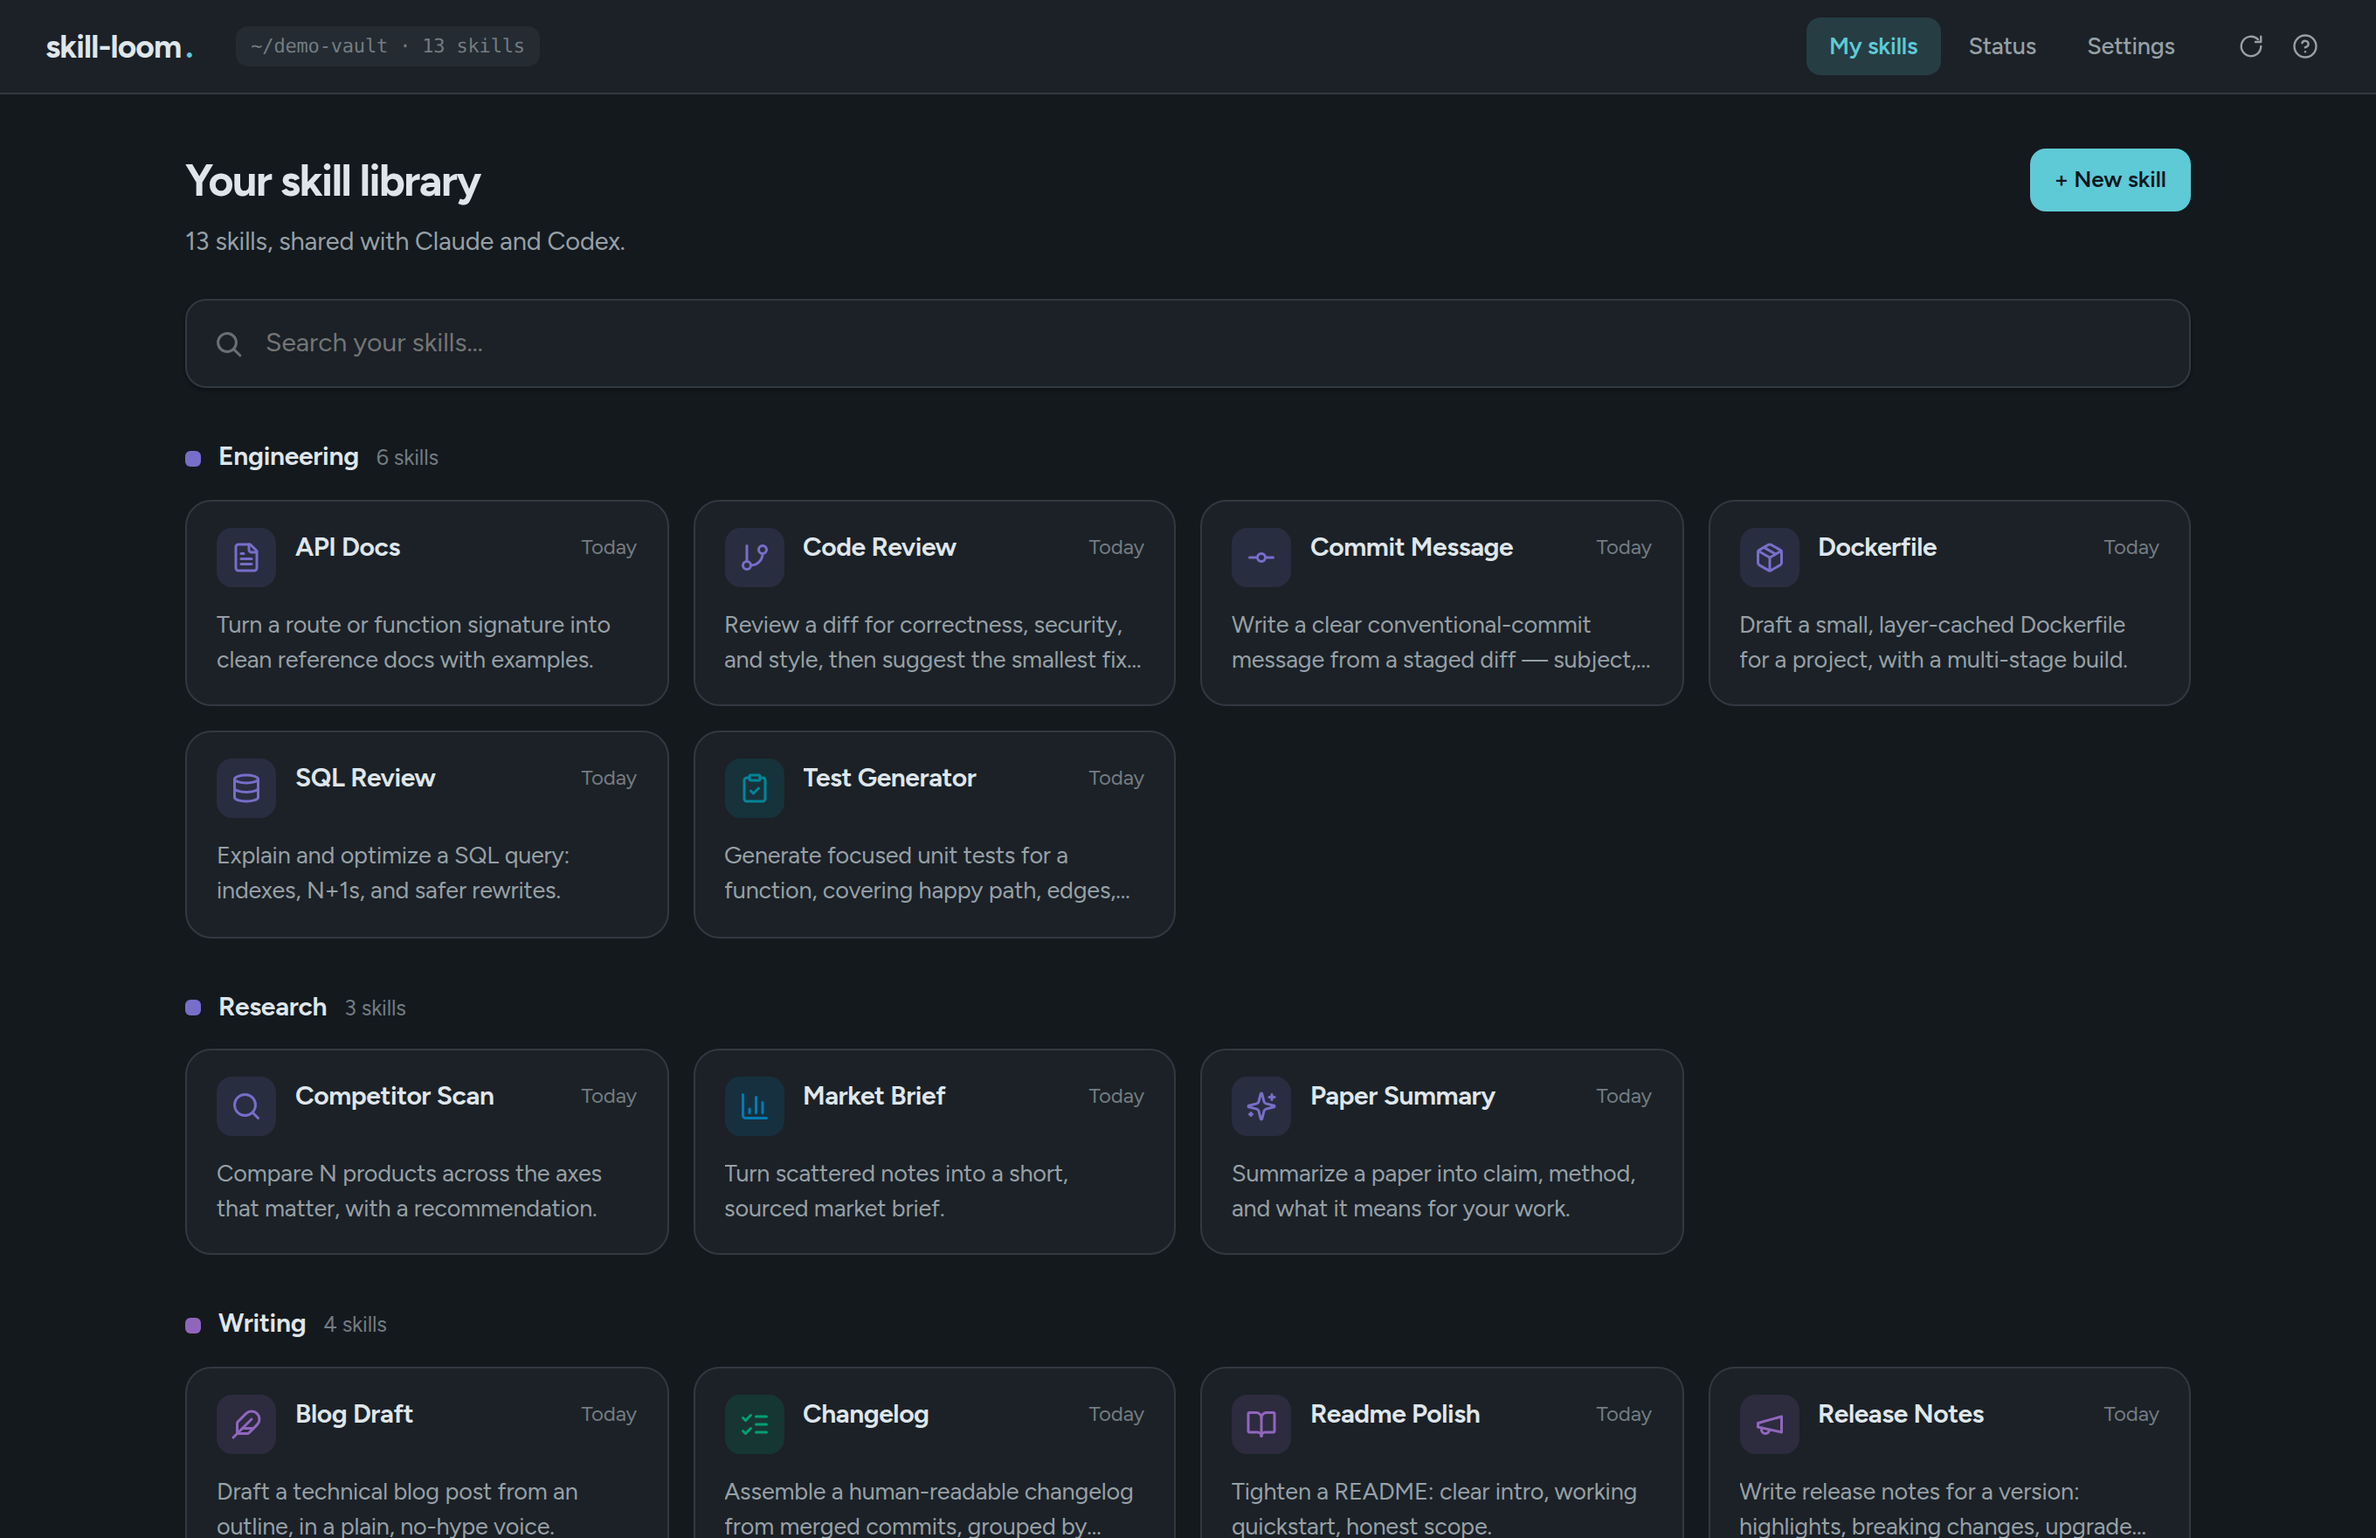
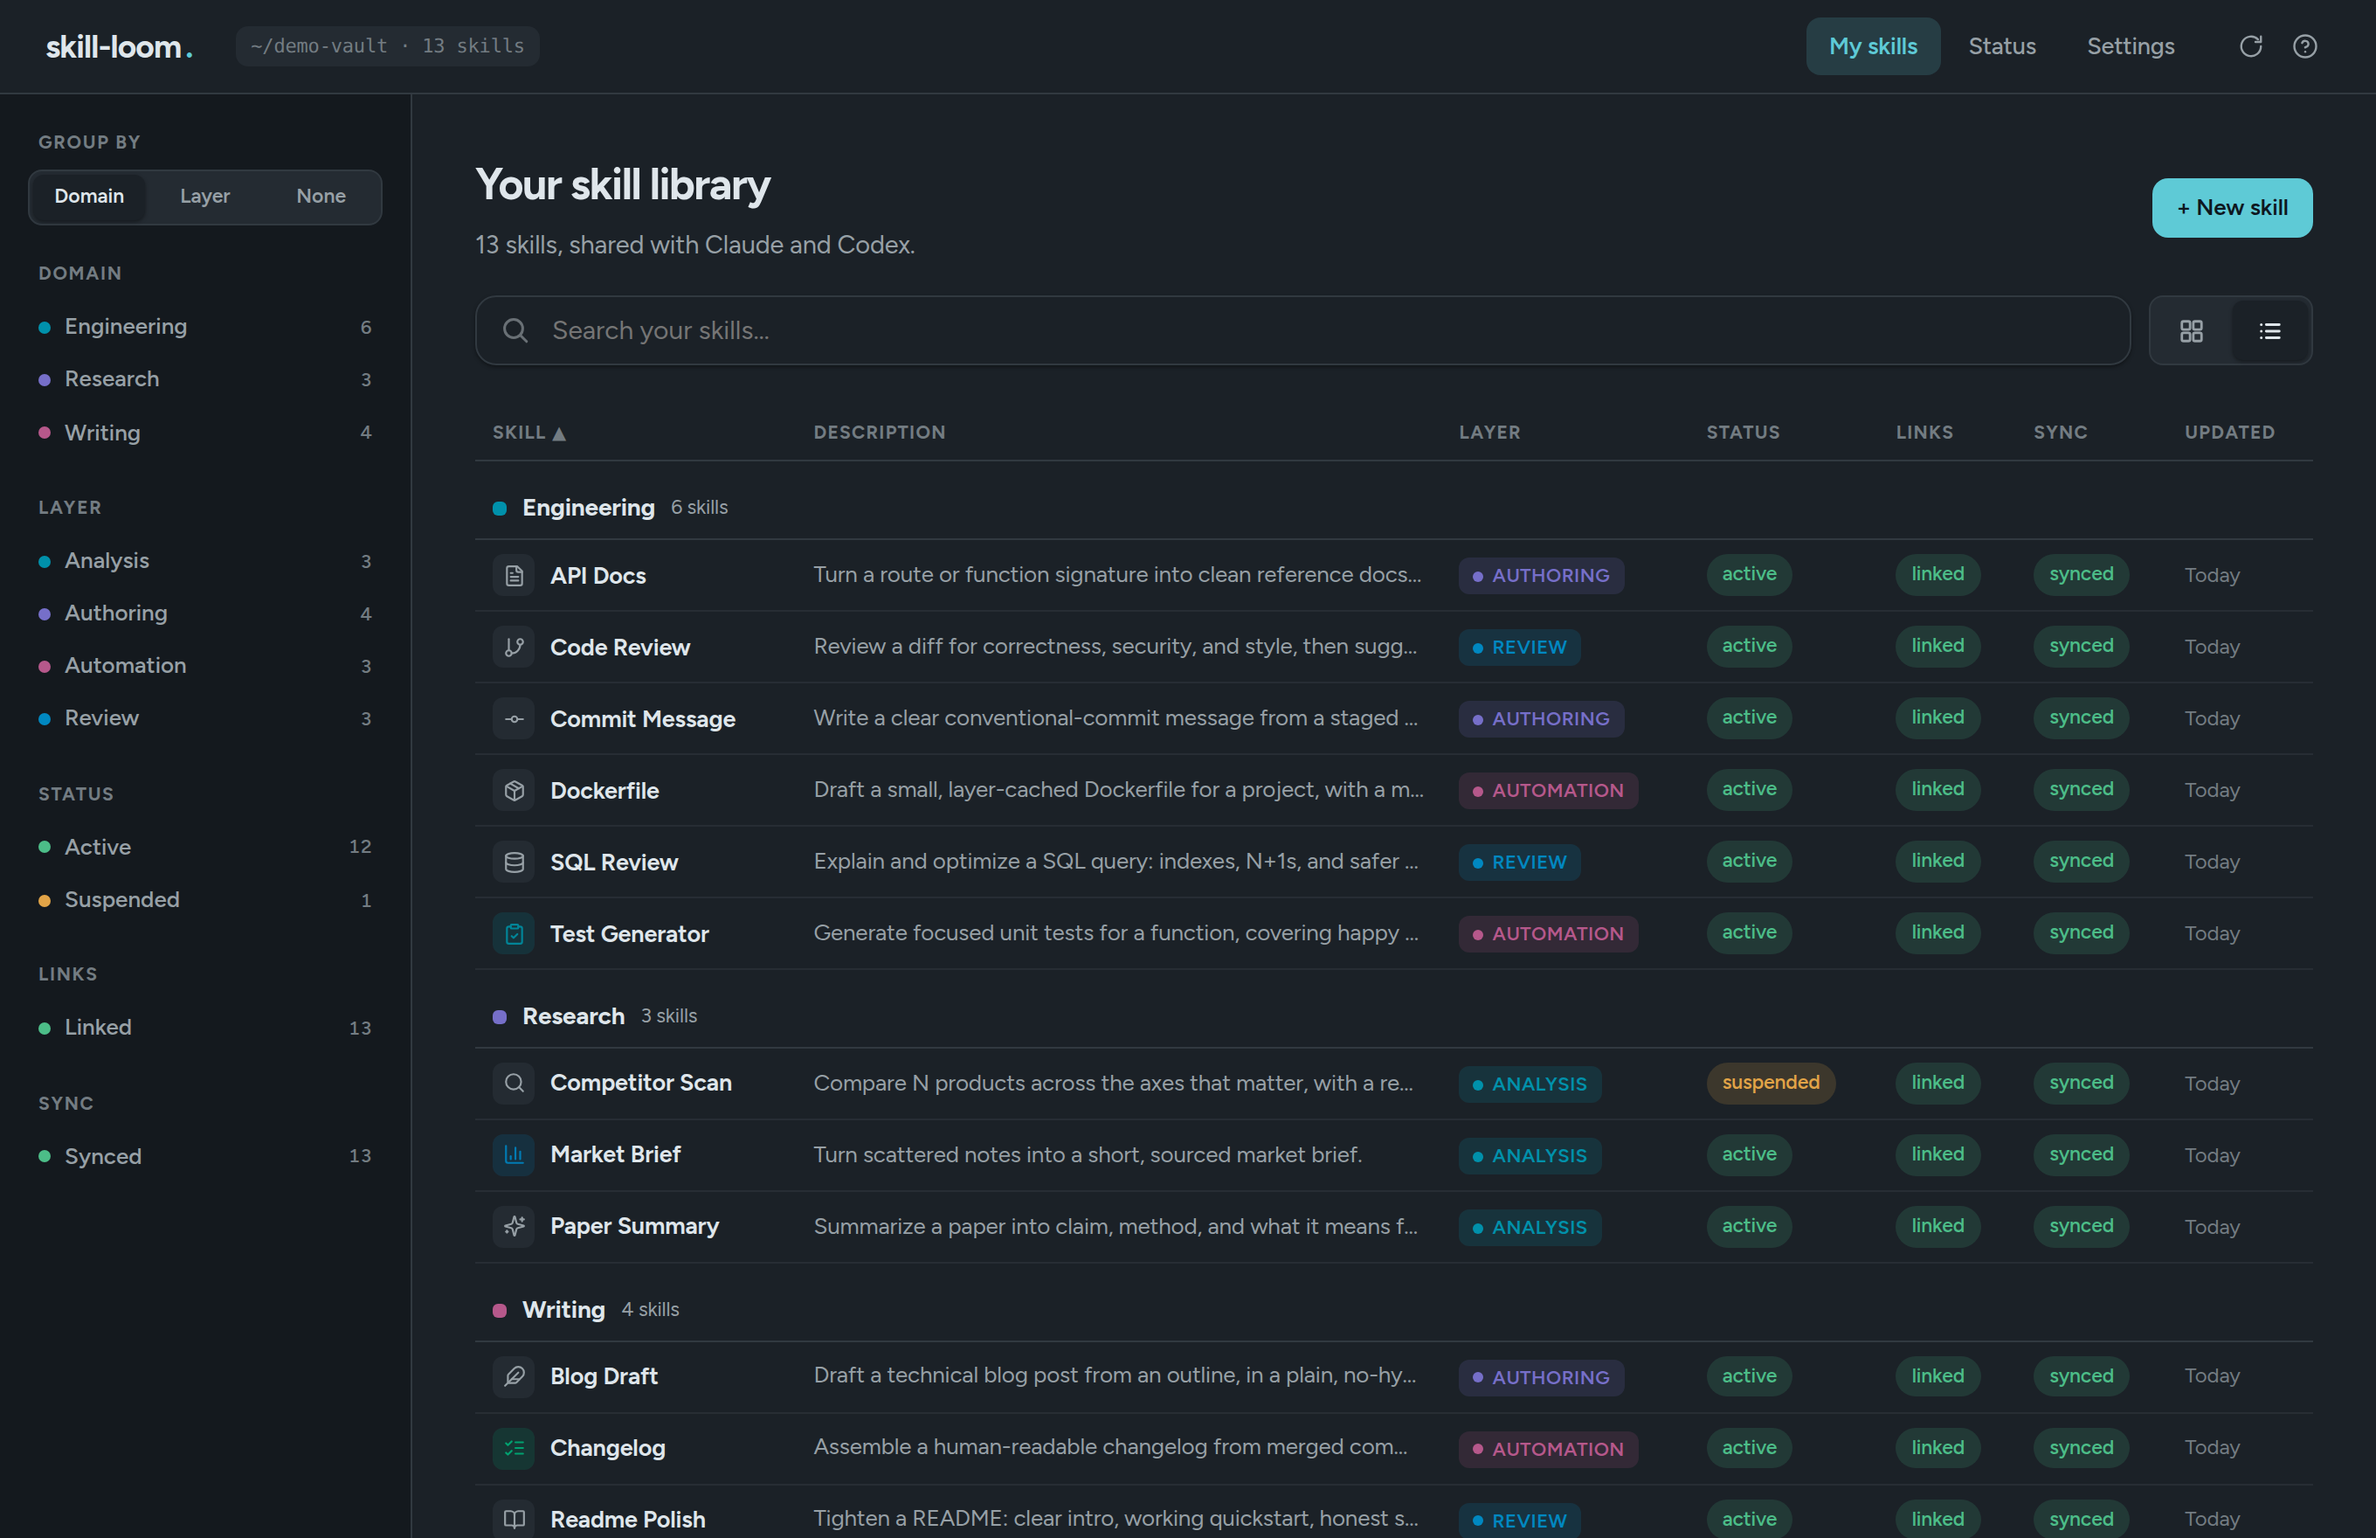
docs: frontmatter guide, taxonomy demo vault, fresh screenshots
The README documents the SKILL.md frontmatter fields and how they drive
the dashboard, updates the loom.json example (names map, preset story)
and the dashboard tour. The demo vault carries the taxonomy so the
reshot screenshots show grouping, chips and filters.

diff --git a/README.md b/README.md
@@ -63,14 +63,38 @@ my-skills/
   "schema": 1,
   "consumers": {
     "claude": "~/.claude/skills",
-    "codex": "~/.agents/skills"
+    "codex": "~/.codex/skills"
   },
   "ignore": [".git", "node_modules", "__pycache__", ".venv"],
-  "archived": []
+  "archived": [],
+  "names": { "forpros": "ForPros" }
 }
 ```
 
-Any consumer is just a name and a path — add your own runtimes freely.
+Any consumer is just a name and a path — add your own runtimes freely. `init`
+pre-fills the runtimes it detects on your machine (Claude Code, Codex, Cursor,
+opencode, Gemini CLI, Amp, Windsurf, Goose, Mistral Vibe, and the shared
+`~/.agents/skills` pool); the dashboard's Settings page offers the rest as
+one-click additions. `names` overrides word casing in titles and labels
+(editable from Settings too).
+
+## SKILL.md frontmatter
+
+The dashboard is driven by a few optional frontmatter fields — use your own
+vocabulary, every value gets a stable color automatically:
+
+| Field         | Required | What it does                                                                                                  |
+| ------------- | -------- | ------------------------------------------------------------------------------------------------------------- |
+| `name`        | yes      | Must equal the folder name (`doctor` checks it).                                                              |
+| `description` | no       | Shown on cards and in the table; it is also what your agents read to decide when to use the skill.            |
+| `domain`      | no       | Who the skill belongs to (a brand, a project, `cross`). Groups the library and feeds the sidebar filter.      |
+| `layer`       | no       | What kind of work it does (e.g. `tool`, `review`, `authoring`). The orthogonal axis: chips, grouping, filter. |
+| `status`      | no       | Lifecycle: `active` (default) or `suspended` (parked but visible). Archiving is a separate skill-loom action. |
+| `icon`        | no       | A line-icon name for the skill tile (NotePlan-style).                                                         |
+| `icon-color`  | no       | A Tailwind-ish token (e.g. `teal-500`) overriding the tile hue.                                               |
+
+Skills without `domain`/`layer` land in an "Other" group — everything keeps
+working, the taxonomy only adds structure.
 
 ## Dashboard
 
@@ -79,11 +103,14 @@ self-contained page, no external dependencies, nothing leaves your machine.
 
 ![skill-loom dashboard — your skill library, grouped and colour-coded by category](docs/dashboard-library.png)
 
-- **My skills** — your library as cards, grouped and colour-coded by category,
-  each with a NotePlan-style icon (set `icon:` / `icon-color:` in frontmatter).
-  Status shows only when it deviates ("Needs attention", "Not active yet") so a
-  healthy vault stays calm. Full-text search, plus keyboard navigation — arrows
-  to select a skill, <kbd>Enter</kbd> to open.
+- **My skills** — your library as a sortable table (or a card grid, <kbd>g</kbd>
+  toggles), grouped by `domain` or `layer` with per-value colors and chips. The
+  sidebar filters by domain, layer, lifecycle status, link state and git sync
+  state, composing with full-text search. Each row answers the operational
+  questions at a glance: lifecycle (`active` / `suspended`), links (`linked` /
+  `partial` / `not linked` / `conflict`) and sync (`synced` / `to commit` /
+  `to push` / `to pull`). On open, a live check against your git remote offers
+  push/pull when the vault is out of sync.
 - **Skill page** — a three-pane view: files on the left, the guide rendered as a
   clean document (with syntax highlighting in the source view) in the centre, and
   runtime toggles + git history on the right. "See what changed" opens the commit
